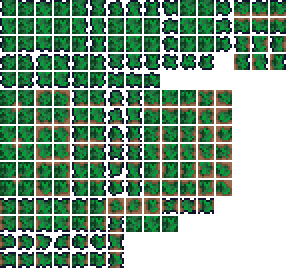
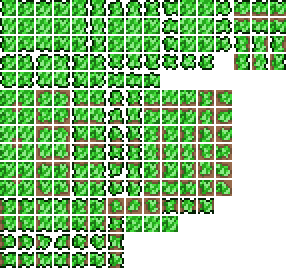
Implemented Breastplate and Updated Ore Brightness

diff --git a/Content/Armor/MalachiteBreastplate.cs b/Content/Armor/MalachiteBreastplate.cs
@@ -1,0 +1,39 @@
+using Terraria;
+using Terraria.ID;
+using Terraria.Localization;
+using Terraria.ModLoader;
+
+namespace VoyagerMod.Content.Items.Armor
+{
+	// The AutoloadEquip attribute automatically attaches an equip texture to this item.
+	// Providing the EquipType.Body value here will result in TML expecting X_Arms.png, X_Body.png and X_FemaleBody.png sprite-sheet files to be placed next to the item's main texture.
+	[AutoloadEquip(EquipType.Body)]
+	public class MalachiteBreastplate : ModItem
+	{
+		public static int MaxManaIncrease = 20;
+		public static int MaxMinionIncrease = 1;
+
+		public override LocalizedText Tooltip => base.Tooltip.WithFormatArgs(MaxManaIncrease, MaxMinionIncrease);
+
+		public override void SetDefaults() {
+			Item.width = 18; // Width of the item
+			Item.height = 18; // Height of the item
+			Item.value = Item.sellPrice(gold: 1); // How many coins the item is worth
+			Item.rare = ItemRarityID.Green; // The rarity of the item
+			Item.defense = 6; // The amount of defense the item will give when equipped
+		}
+
+		public override void UpdateEquip(Player player) {
+			player.buffImmune[BuffID.OnFire] = true; // Make the player immune to Fire
+			player.statManaMax2 += MaxManaIncrease; // Increase how many mana points the player can have by 20
+			player.maxMinions += MaxMinionIncrease; // Increase how many minions the player can have by one
+		}
+
+		// Please see Content/ExampleRecipes.cs for a detailed explanation of recipe creation.
+		public override void AddRecipes() {
+			CreateRecipe().AddIngredient<MalachiteOre>(50)
+				// .AddTile<Tiles.Furniture.ExampleWorkbench>()
+				.Register();
+		}
+	}
+}
